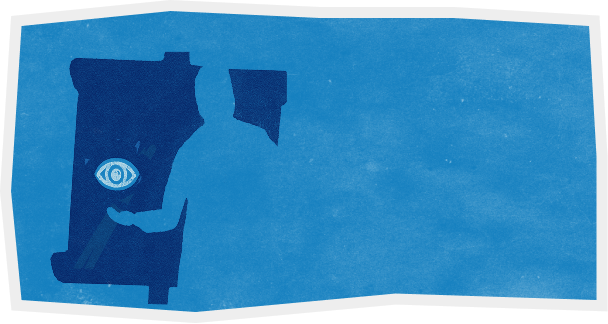
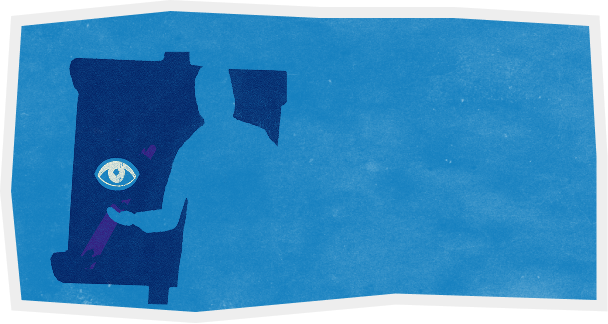
Merge branch 'claude/recursing-agnesi-2392fe'

diff --git a/src/components/layout/Footer.tsx b/src/components/layout/Footer.tsx
@@ -1,5 +1,6 @@
 "use client";
 
+import Image from "next/image";
 import { usePathname } from "next/navigation";
 import { TornEdge } from "@/components/ui/TornEdge";
 
@@ -49,8 +50,9 @@ export function Footer() {
           viewBoxHeight={FOOTER_TORN.viewBoxHeight}
           grunge
         />
-        <div className="max-w-7xl mx-auto flex flex-col sm:flex-row items-start sm:items-center justify-between gap-6">
-          <div className="flex items-center gap-3">
+        {/* Single row: logo | handwriting (center) | LinkedIn */}
+        <div className="max-w-7xl mx-auto flex items-center justify-between gap-6">
+          <div className="flex items-center gap-3 flex-1">
             <span
               aria-hidden
               className="block h-7 w-7 shrink-0"
@@ -68,12 +70,36 @@ export function Footer() {
             />
             <span className="font-headline text-2xl leading-none">Startle Labs</span>
           </div>
-          <div className="flex gap-8 text-sm uppercase tracking-[0.2em] font-semibold">
-            <a href="#" className="hover:opacity-70 transition-opacity">Twitter</a>
-            <a href="#" className="hover:opacity-70 transition-opacity">Instagram</a>
-            <a href="https://linkedin.com/in/shaidavis" target="_blank" rel="noopener noreferrer" className="hover:opacity-70 transition-opacity">LinkedIn</a>
+          <p className="font-handwritten text-xl flex items-center gap-2" style={{ color: "#230F2C" }}>
+            Hand-drawn with
+            <Image
+              src="/images/icons/Heart .png"
+              alt="love"
+              width={24}
+              height={24}
+              className="inline-block"
+            />
+            in TLV
+          </p>
+          <div className="flex-1 flex justify-end">
+            <a href="https://linkedin.com/in/shaidavis" target="_blank" rel="noopener noreferrer" className="flex items-center gap-1.5 text-sm uppercase tracking-[0.2em] font-semibold hover:opacity-70 transition-opacity">
+              LinkedIn
+              <svg
+                xmlns="http://www.w3.org/2000/svg"
+                viewBox="0 0 24 24"
+                fill="currentColor"
+                className="h-4 w-4"
+                aria-hidden
+              >
+                <path d="M20.447 20.452h-3.554v-5.569c0-1.328-.027-3.037-1.852-3.037-1.853 0-2.136 1.445-2.136 2.939v5.667H9.351V9h3.414v1.561h.046c.477-.9 1.637-1.85 3.37-1.85 3.601 0 4.267 2.37 4.267 5.455v6.286zM5.337 7.433a2.062 2.062 0 0 1-2.063-2.065 2.064 2.064 0 1 1 2.063 2.065zm1.782 13.019H3.555V9h3.564v11.452zM22.225 0H1.771C.792 0 0 .774 0 1.729v20.542C0 23.227.792 24 1.771 24h20.451C23.2 24 24 23.227 24 22.271V1.729C24 .774 23.2 0 22.222 0h.003z" />
+              </svg>
+            </a>
           </div>
-          <span className="text-xs opacity-70">
+        </div>
+
+        {/* Copyright centered below */}
+        <div className="mt-4 text-center">
+          <span className="text-xs opacity-70" style={{ color: "#230F2C" }}>
             © {new Date().getFullYear()} Startle Labs
           </span>
         </div>

diff --git a/src/app/globals.css b/src/app/globals.css
@@ -74,6 +74,29 @@
   50%      { transform: translateX(-14px); }
 }
 
+@keyframes cta-arrow-bounce {
+  0%, 100% { transform: translateX(0); }
+  50%      { transform: translateX(7px); }
+}
+
+/* Service panel CTA button arrow — masked arrow-4.png, dark ink color,
+   slowly bouncing rightward to invite a click. */
+.cta-arrow {
+  display: inline-block;
+  width: 52px;
+  height: 14px;
+  background-color: #230F2C;
+  -webkit-mask-image: url(/images/accents/arrow-4.png);
+          mask-image: url(/images/accents/arrow-4.png);
+  -webkit-mask-size: contain;
+          mask-size: contain;
+  -webkit-mask-repeat: no-repeat;
+          mask-repeat: no-repeat;
+  -webkit-mask-position: center;
+          mask-position: center;
+  animation: cta-arrow-bounce 1.6s ease-in-out infinite;
+}
+
 /* Cross-sell banner squiggle arrow — masked PNG so we can recolor.
    White at rest; on banner hover (parent has .group), turn yellow and
    slide back-and-forth leftward. */

diff --git a/src/components/layout/Topbar.tsx b/src/components/layout/Topbar.tsx
@@ -198,13 +198,11 @@ export function Topbar() {
                 /* ── Hero mode: logo centered, nothing else ── */
                 <motion.div
                   key="hero"
-                  className={`w-full h-full flex items-center justify-center transition-opacity duration-200 ${
-                    collapsed ? "opacity-0 pointer-events-none" : "opacity-100"
-                  }`}
+                  className={`w-full h-full flex items-center justify-center ${collapsed ? "pointer-events-none" : ""}`}
                   initial={{ opacity: 0 }}
-                  animate={{ opacity: 1 }}
+                  animate={{ opacity: collapsed ? 0 : 1 }}
                   exit={{ opacity: 0 }}
-                  transition={{ duration: 0.3 }}
+                  transition={{ duration: 0.2 }}
                 >
                   <motion.div layoutId="topbar-logo">
                     <Link
@@ -223,13 +221,11 @@ export function Topbar() {
                 /* ── Full navbar mode ── */
                 <motion.div
                   key="full"
-                  className={`w-full h-full flex items-center justify-between px-8 sm:px-10 md:px-12 transition-opacity duration-200 ${
-                    collapsed ? "opacity-0 pointer-events-none" : "opacity-100"
-                  }`}
+                  className={`w-full h-full flex items-center justify-between px-8 sm:px-10 md:px-12 ${collapsed ? "pointer-events-none" : ""}`}
                   initial={{ opacity: 0 }}
-                  animate={{ opacity: 1 }}
+                  animate={{ opacity: collapsed ? 0 : 1 }}
                   exit={{ opacity: 0 }}
-                  transition={{ duration: 0.3 }}
+                  transition={{ duration: 0.2 }}
                 >
                   <motion.div layoutId="topbar-logo">
                     <Link

diff --git a/src/data/services.ts b/src/data/services.ts
@@ -87,6 +87,8 @@ export interface Service {
    * Figma wireframe. Falls back to `heroImage` when not provided.
    */
   ctaArt?: string;
+  /** If true, the ctaArt image is flipped horizontally and tinted blue via CSS. */
+  ctaArtFlipped?: boolean;
   /** Copy for the closing CTA ("Curiosity piqued?" pattern). */
   closingCta: { title: string; body: string; button: string };
 }
@@ -102,7 +104,7 @@ export const services: Record<string, Service> = {
     slug: "brand-strategy",
     title: "Brand Strategy",
     navTooltip: "Strategy",
-    headline: "Creative strategy\nbrand identity,\nand messaging",
+    headline: "Creative strategy,\nbrand identity,\nand messaging\nthat inspire",
     description: "confidence",
     navTitle: "Creative strategy, Brand identity, and Messaging",
     heroTagline: "Creative Solutions",
@@ -185,7 +187,7 @@ export const services: Record<string, Service> = {
     slug: "creative-direction",
     title: "Pitch Decks",
     navTooltip: "Presentations",
-    headline: "Pitch decks,\npresentations,\nand collateral",
+    headline: "Pitch decks,\npresentations,\nand collateral\nthat inspire",
     description: "curiosity",
     navTitle: "Pitch decks, Presentations, and Collateral",
     heroTagline: "Pitch perfect.",
@@ -256,7 +258,7 @@ export const services: Record<string, Service> = {
     ],
     cta: { text: "Explore Pitch Decks", href: "/services/creative-direction" },
     relatedServices: ["digital-design", "brand-strategy"],
-    ctaArt: "/images/icons/presentations-hero-alt.svg",
+    ctaArt: "/images/icons/presentations-new.png",
     closingCta: {
       title: "Curiosity piqued?",
       body: "Placeholder body — real closing copy coming soon.",
@@ -268,7 +270,7 @@ export const services: Record<string, Service> = {
     slug: "digital-design",
     title: "Websites",
     navTooltip: "Websites",
-    headline: "Websites,\nart direction,\nand product",
+    headline: "Websites,\nart direction,\nand product\nthat inspire",
     description: "connection",
     navTitle: "Websites, Art direction, and Product",
     heroTagline: "Web perfect.",

diff --git a/src/components/templates/ServicePageTemplate.tsx b/src/components/templates/ServicePageTemplate.tsx
@@ -91,8 +91,8 @@ const YELLOW = "#efce25";
    simple group-hover opacity crossfade. */
 const CROSS_SELL_BANNERS: Record<string, { idle: string; hover: string }> = {
   "brand-strategy": {
-    idle: "/images/banners/Branding%20Idle.svg",
-    hover: "/images/banners/Branding%20Hover.svg",
+    idle: "/images/banners/Branding%20Idle.png",
+    hover: "/images/banners/Branding%20Hover.png",
   },
   "creative-direction": {
     idle: "/images/banners/Presentations%20Idle.png",
@@ -350,6 +350,10 @@ export function ServicePageTemplate({ service }: Props) {
                 alt=""
                 aria-hidden
                 className="w-full h-full object-contain object-bottom"
+                style={service.ctaArtFlipped ? {
+                  transform: "scaleX(-1)",
+                  filter: "invert(1) sepia(1) saturate(3) hue-rotate(175deg) brightness(0.7)",
+                } : undefined}
               />
             </div>
           )}

diff --git a/src/components/sections/FullscreenScroller.tsx b/src/components/sections/FullscreenScroller.tsx
@@ -600,9 +600,10 @@ function ServicePanel({
         <a
           ref={ctaRef}
           href={`/services/${service.slug}`}
-          className="mt-5 sm:mt-10 inline-flex items-center gap-2 px-7 sm:px-9 py-3 sm:py-4 bg-[#E9C402] text-[#230F2C] font-semibold rounded-lg hover:brightness-110 transition-all will-change-transform text-sm sm:text-base"
+          className="mt-5 sm:mt-10 inline-flex items-center gap-3 px-7 sm:px-9 py-3 sm:py-4 bg-[#E9C402] text-[#230F2C] font-semibold rounded-lg hover:brightness-110 transition-all will-change-transform text-sm sm:text-base"
         >
           {service.cta.text}
+          <span className="cta-arrow" aria-hidden />
         </a>
       </div>
     </div>